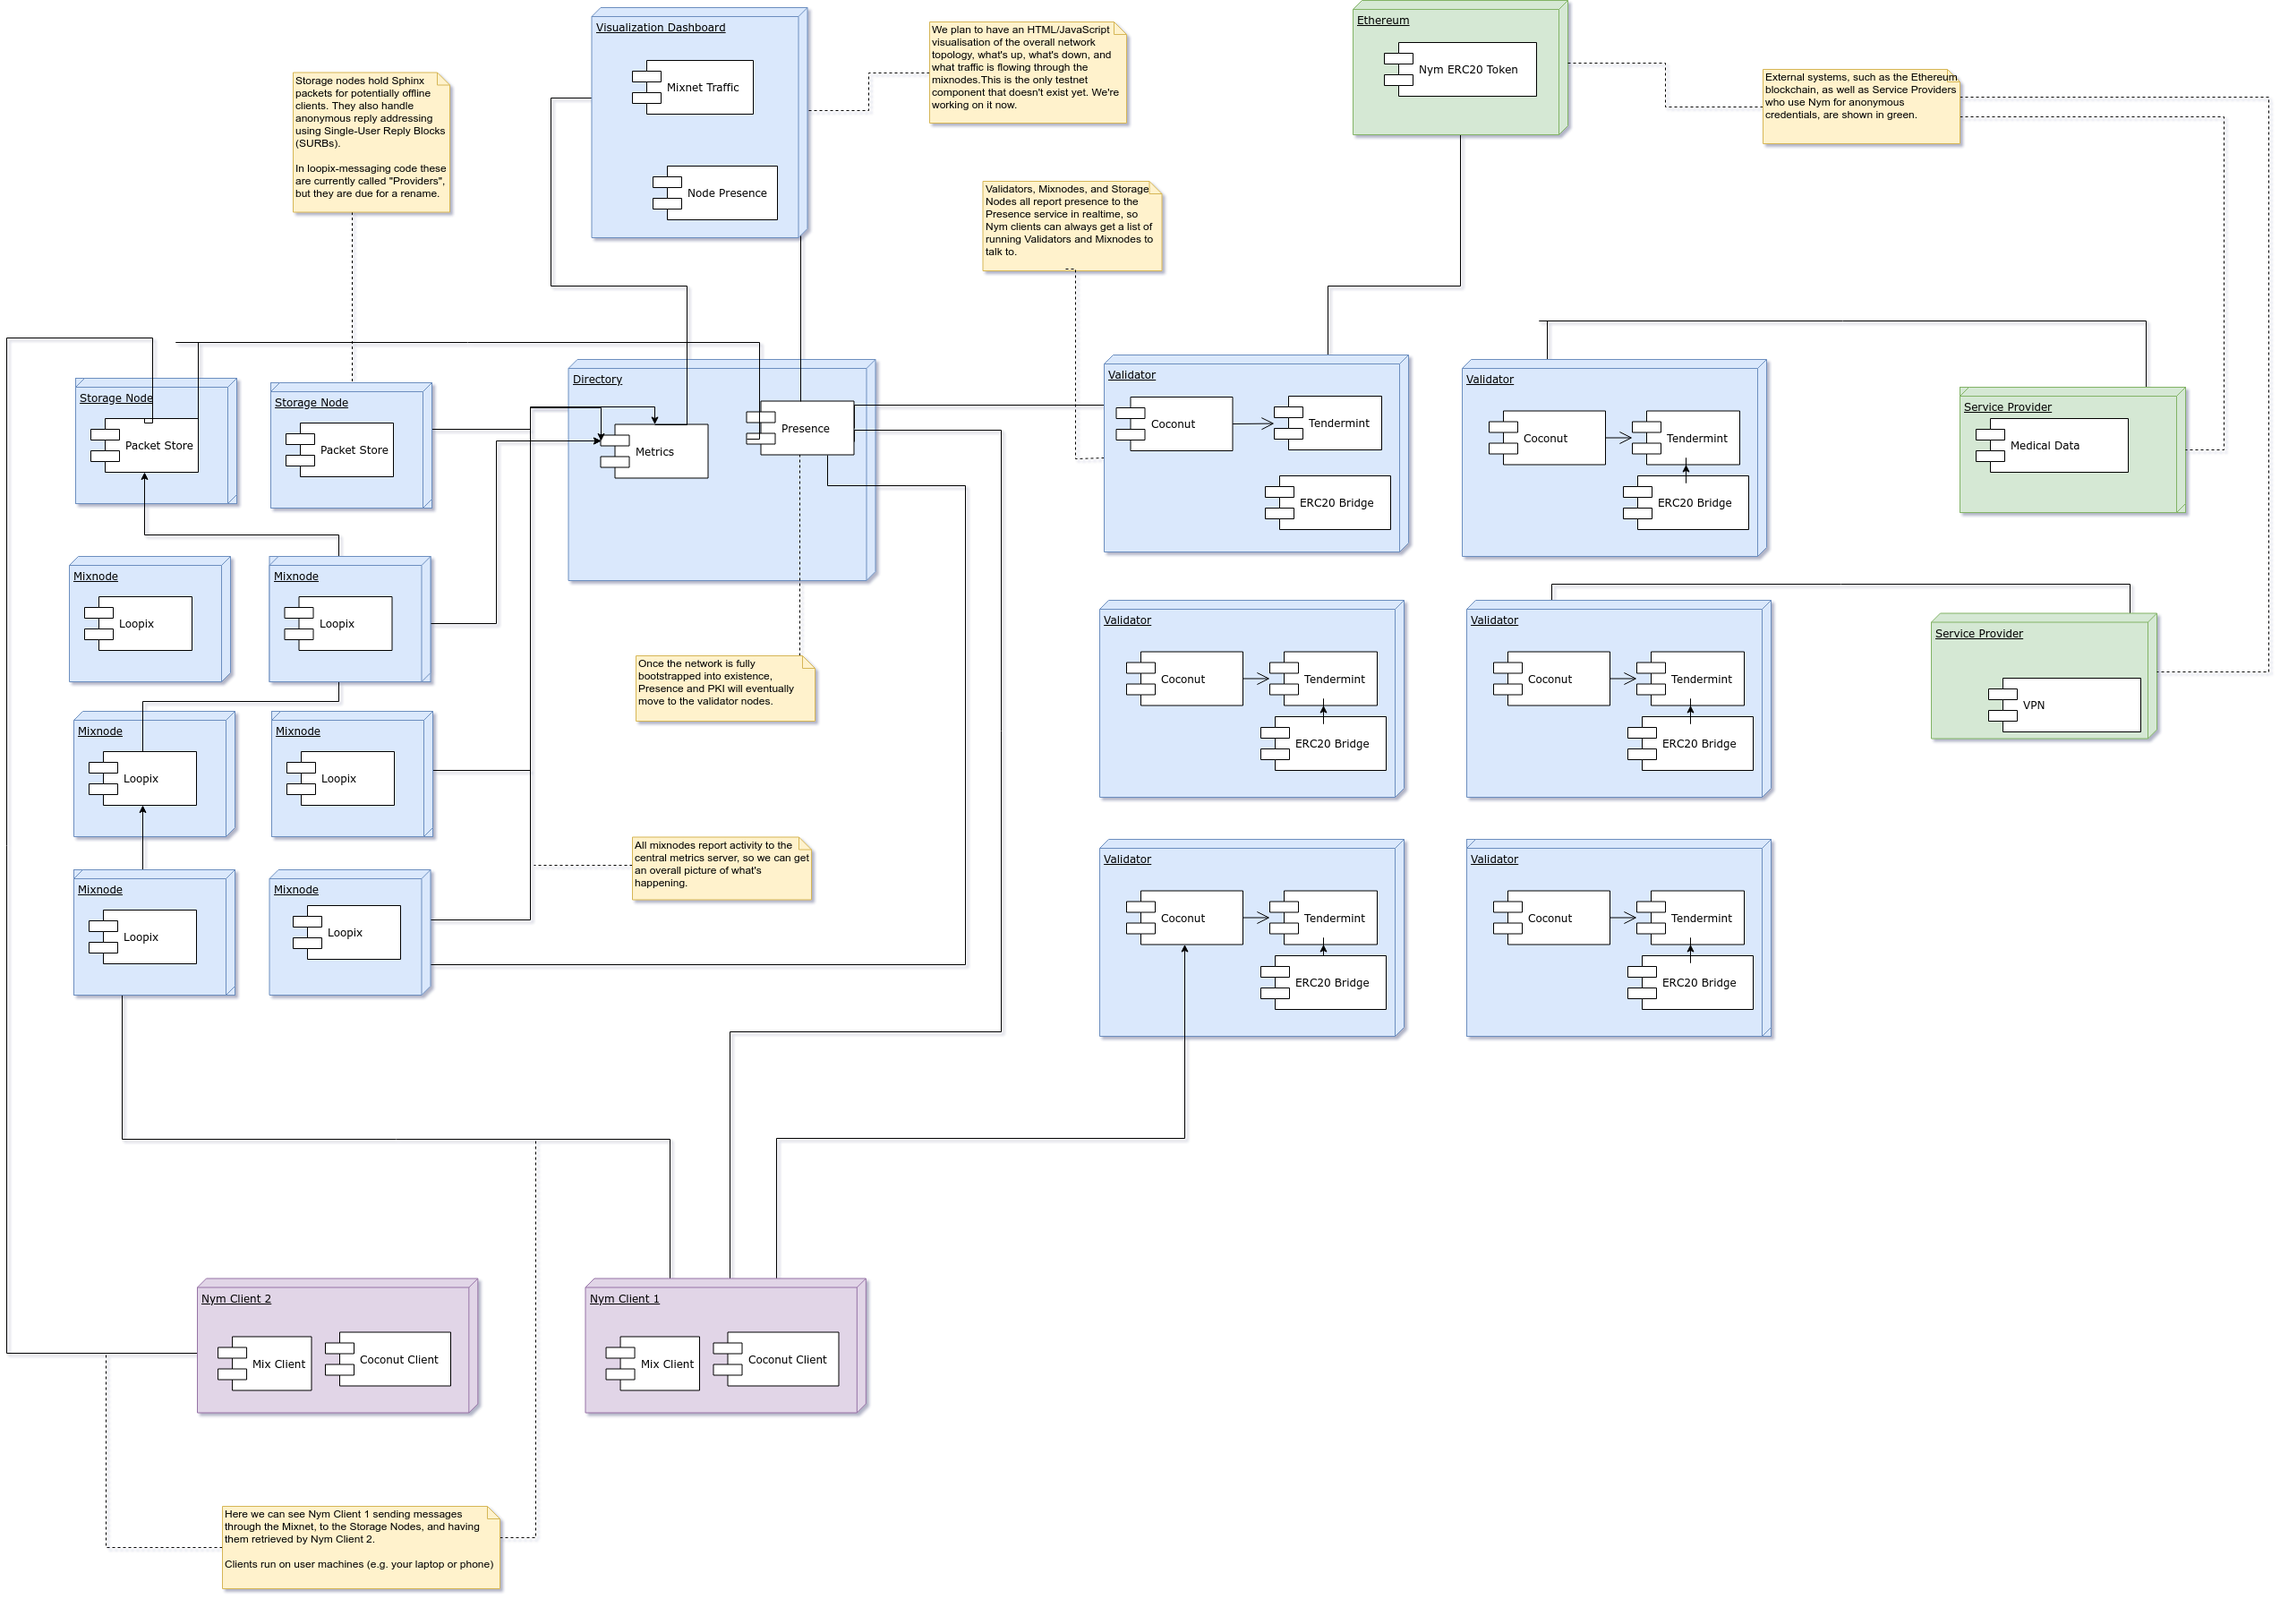
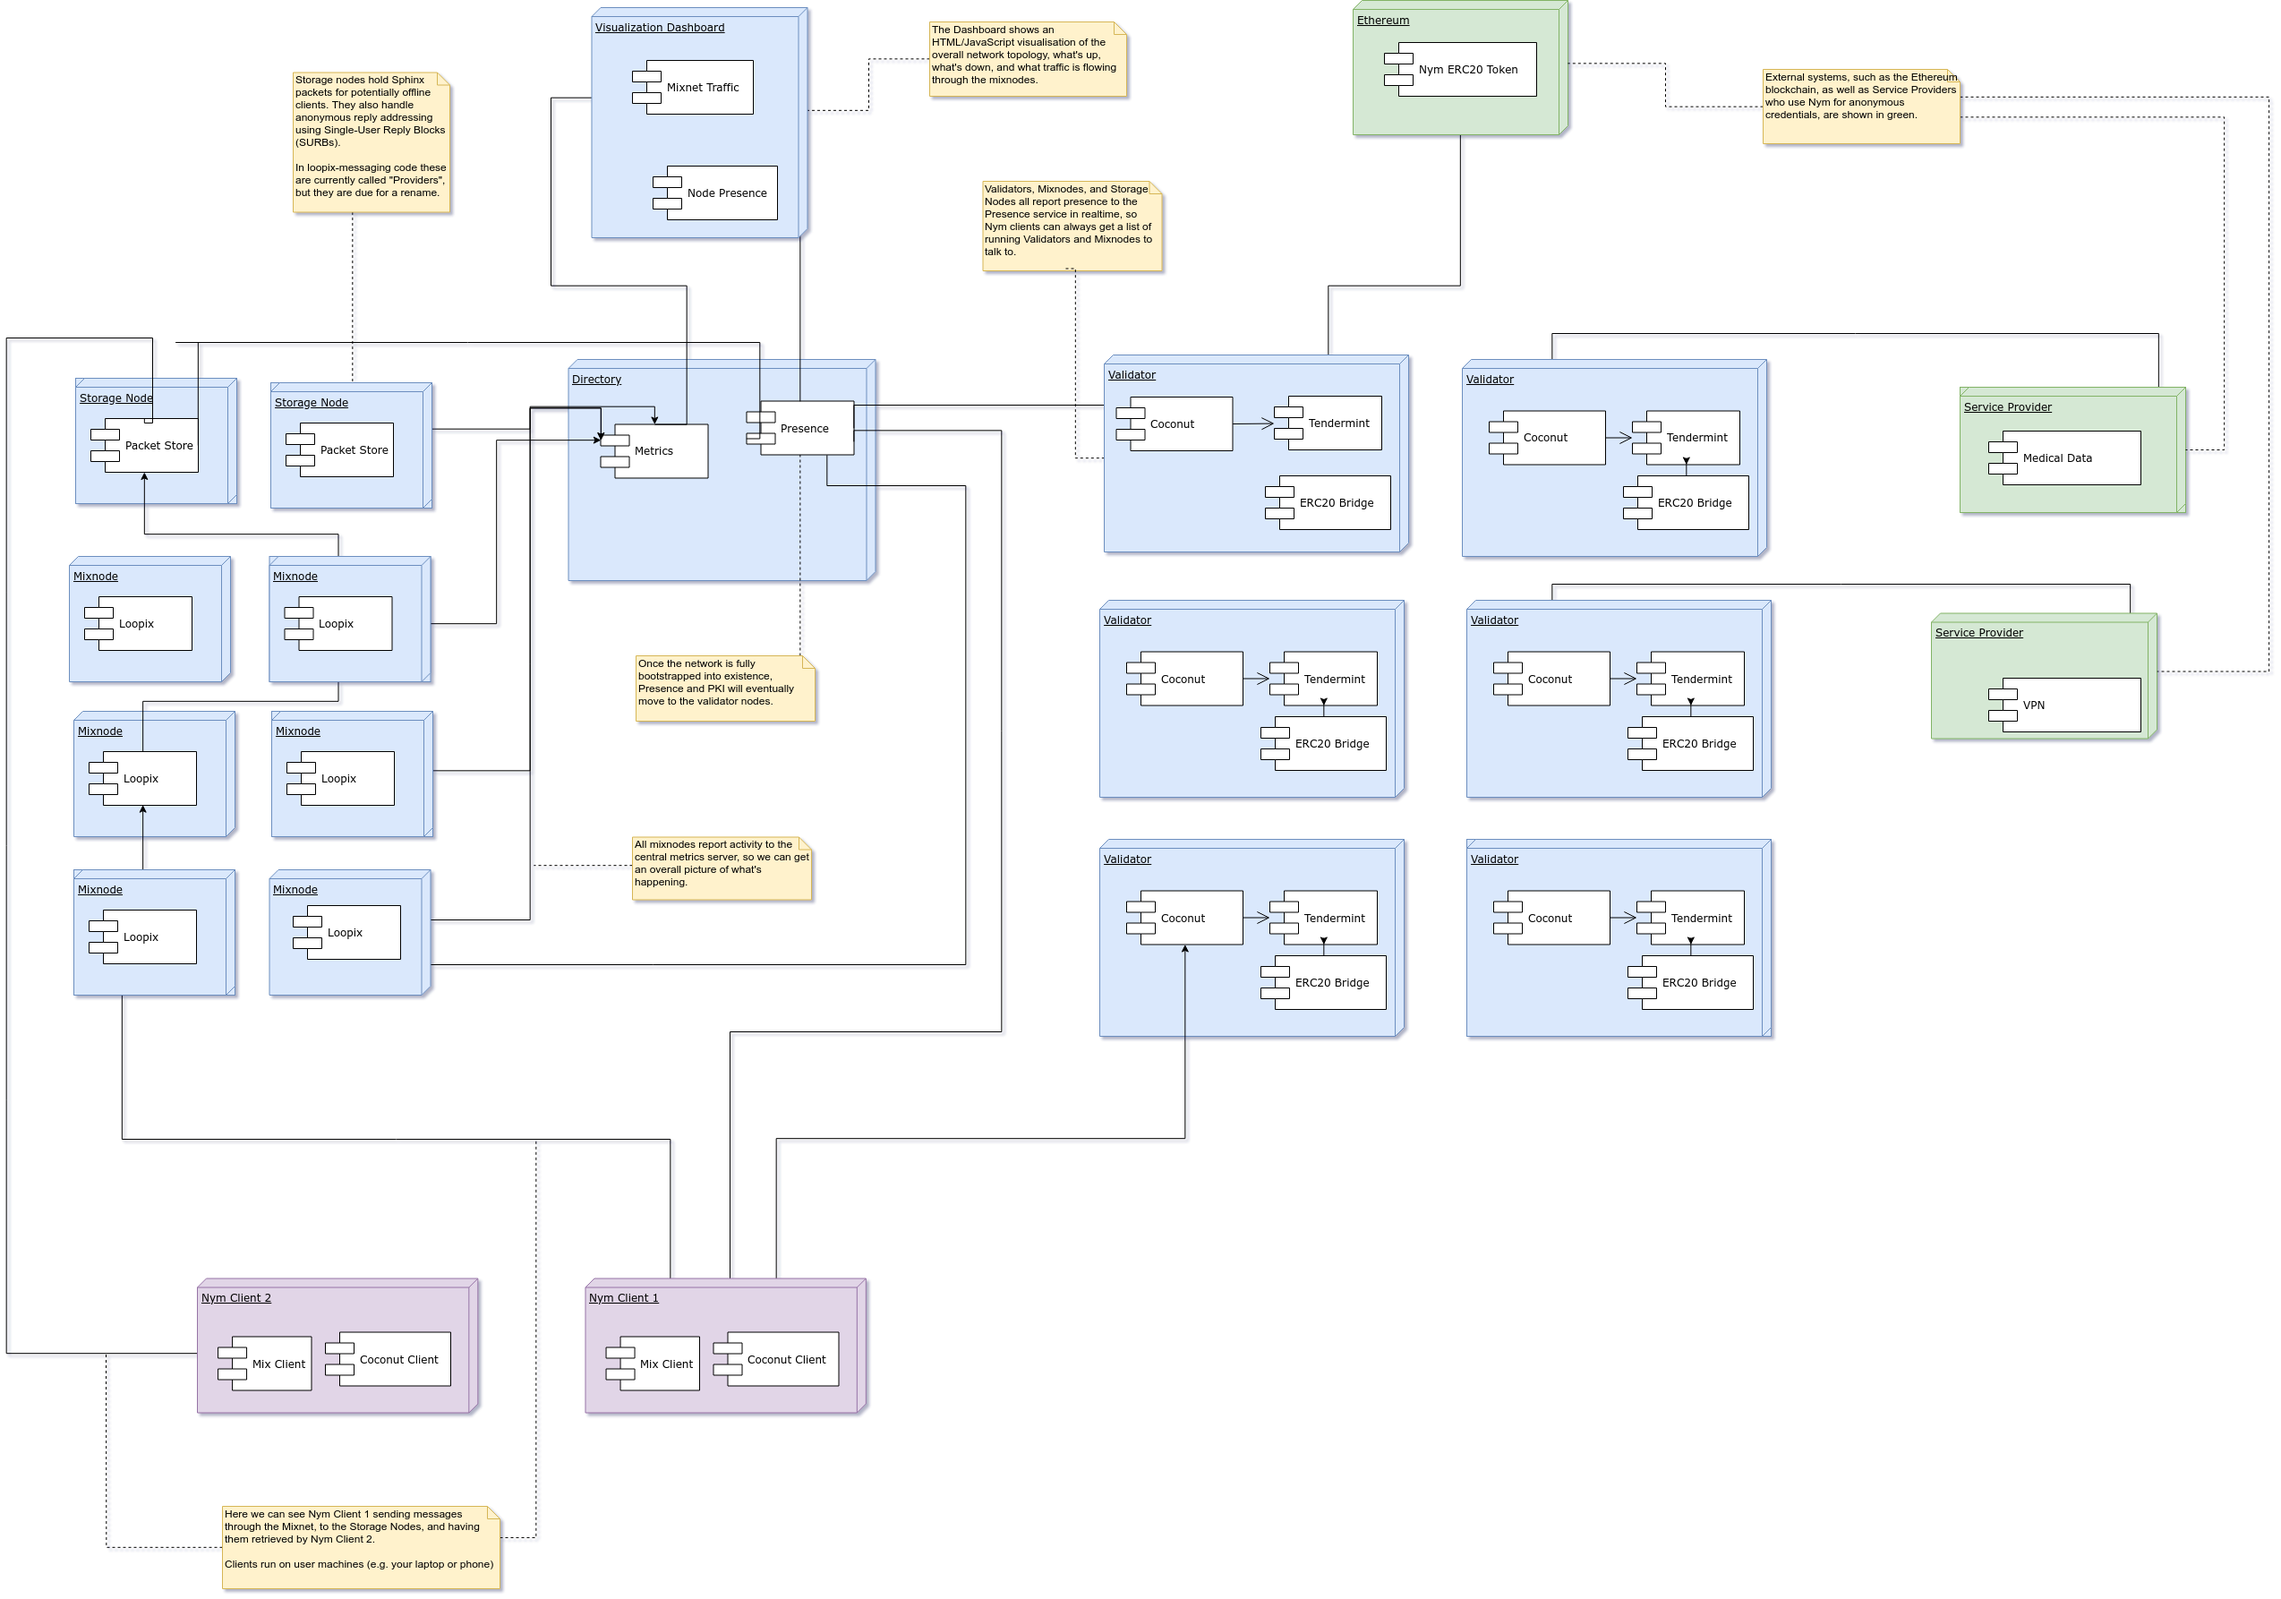
Starting to get some diagrams in place

diff --git a/index.md b/index.md
@@ -14,16 +14,22 @@ description: Documentation
 
 Nym is a blockchain-based privacy platform. It combines network level privacy against sophisticated end-to-end attackers, and an anonymizing layer for transactions using decentralised blinded credentials. Our goal is to allow developers to enable their applications with advanced privacy features unavailable in other systems.
 
-At present, our architecture has three main components: **Validators**, **Mixnodes**, and a **Directory**. All of these are running. The overall picture looks like this:
+At present, our architecture has three main components: **Validators**, **Mixnodes**, and a **Directory**. Everything shown in the diagram is currently running on the internet, and you're welcome to try our systems out.
 
-![dashboard](assets/nym-testnet.png)
+![overview](assets/nym-testnet.png)
 
 ## Validators
 
-Nym Validators provide privacy-friendly credentials based on the testimony of a set of decentralized, blockchain-based issuing authorities.  You can read an overview of
+[Nym Validators](https://github.com/nymtech/nym-validator) provide privacy-friendly credentials based on the testimony of a set of decentralized, blockchain-based issuing authorities.
 
+Validators use a signature scheme called [Coconut](https://arxiv.org/abs/1802.07344). This allows users of the system to generate cryptographic claims through decentralised authorities, then use them with service providers. The academic paper is a bit dense; we've got a more conversational explanation of Coconut on the Nym blog that is probably worth a look.
 
-Status:
+Uses Tendermint to prevent double-spending of credentials.
+
+![validators](assets/validators.png)
+
+Status: up and running.
+
 
 ## Mixnodes
 
@@ -38,6 +44,11 @@ Loopix mitigates against packet-dropping attacks by malicious nodes, and ensures
 Applications that need to defend against network-level monitoring can use Loopix - private messaging, VPNs, and other applications to enable strong privacy.
 
 A project wanting only private credentials, but no network defences, should be able use Coconut by itself. Conversely, an application that only needs to defend against network attackers can use Loopix by itself, without Coconut. But developers that need end-to-end protection at both the network and transaction level can use both together.
+
+# Directory
+
+The directory server handles presence and metrics. Temporarily centralized. 
+
 
 # Building and Running Nym
 
